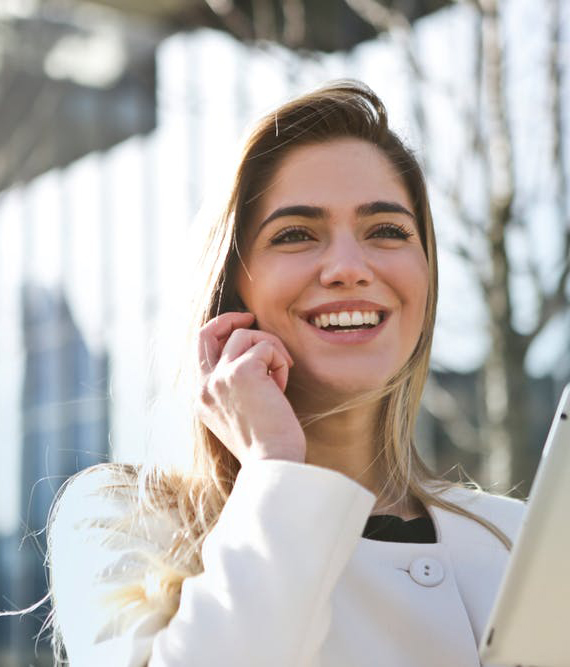
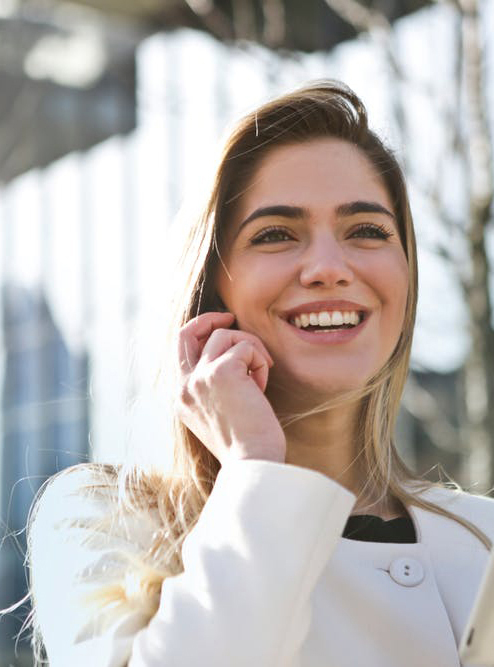
Change hover link state

diff --git a/index.html b/index.html
@@ -93,7 +93,7 @@
     <section class="island-2">
       <div class="grid push-2">
         <div class="unit xs-1 m-1-3 unit-content-distribute crop">
-          <img class="img-flex crop content-fill"  src="images/quote-person.jpeg" alt="Woman talking on phone">
+          <img class="img-flex crop content-fill testimonial-img"  src="images/quote-person.jpeg" alt="Woman talking on phone">
         </div>
         <div class="unit-content-distribute quote unit xs-1 m-2-3 island-2">
           <p class="roboto text-upper peta wrapper"><span class="hang-punc">“</span>Teamship changed the way I ultimately looked at collaboration."</p>

diff --git a/css/main.css b/css/main.css
@@ -69,7 +69,7 @@ nav a {
   color: #000;
 }
 
-nav a:hover {
+header nav a:hover {
   background-color:#D1C1E2;
   border-radius: 12px;
 }
@@ -125,7 +125,7 @@ footer a {
 }
 
 footer nav a:hover{
-  color: #432D59;
+  color: #D1C1E2;
 
 }
 
@@ -144,5 +144,9 @@ hr {
 
   footer {
     height: 10em;
+  }
+
+  .testimonial-img {
+    max-width: 100%;
   }
 }
